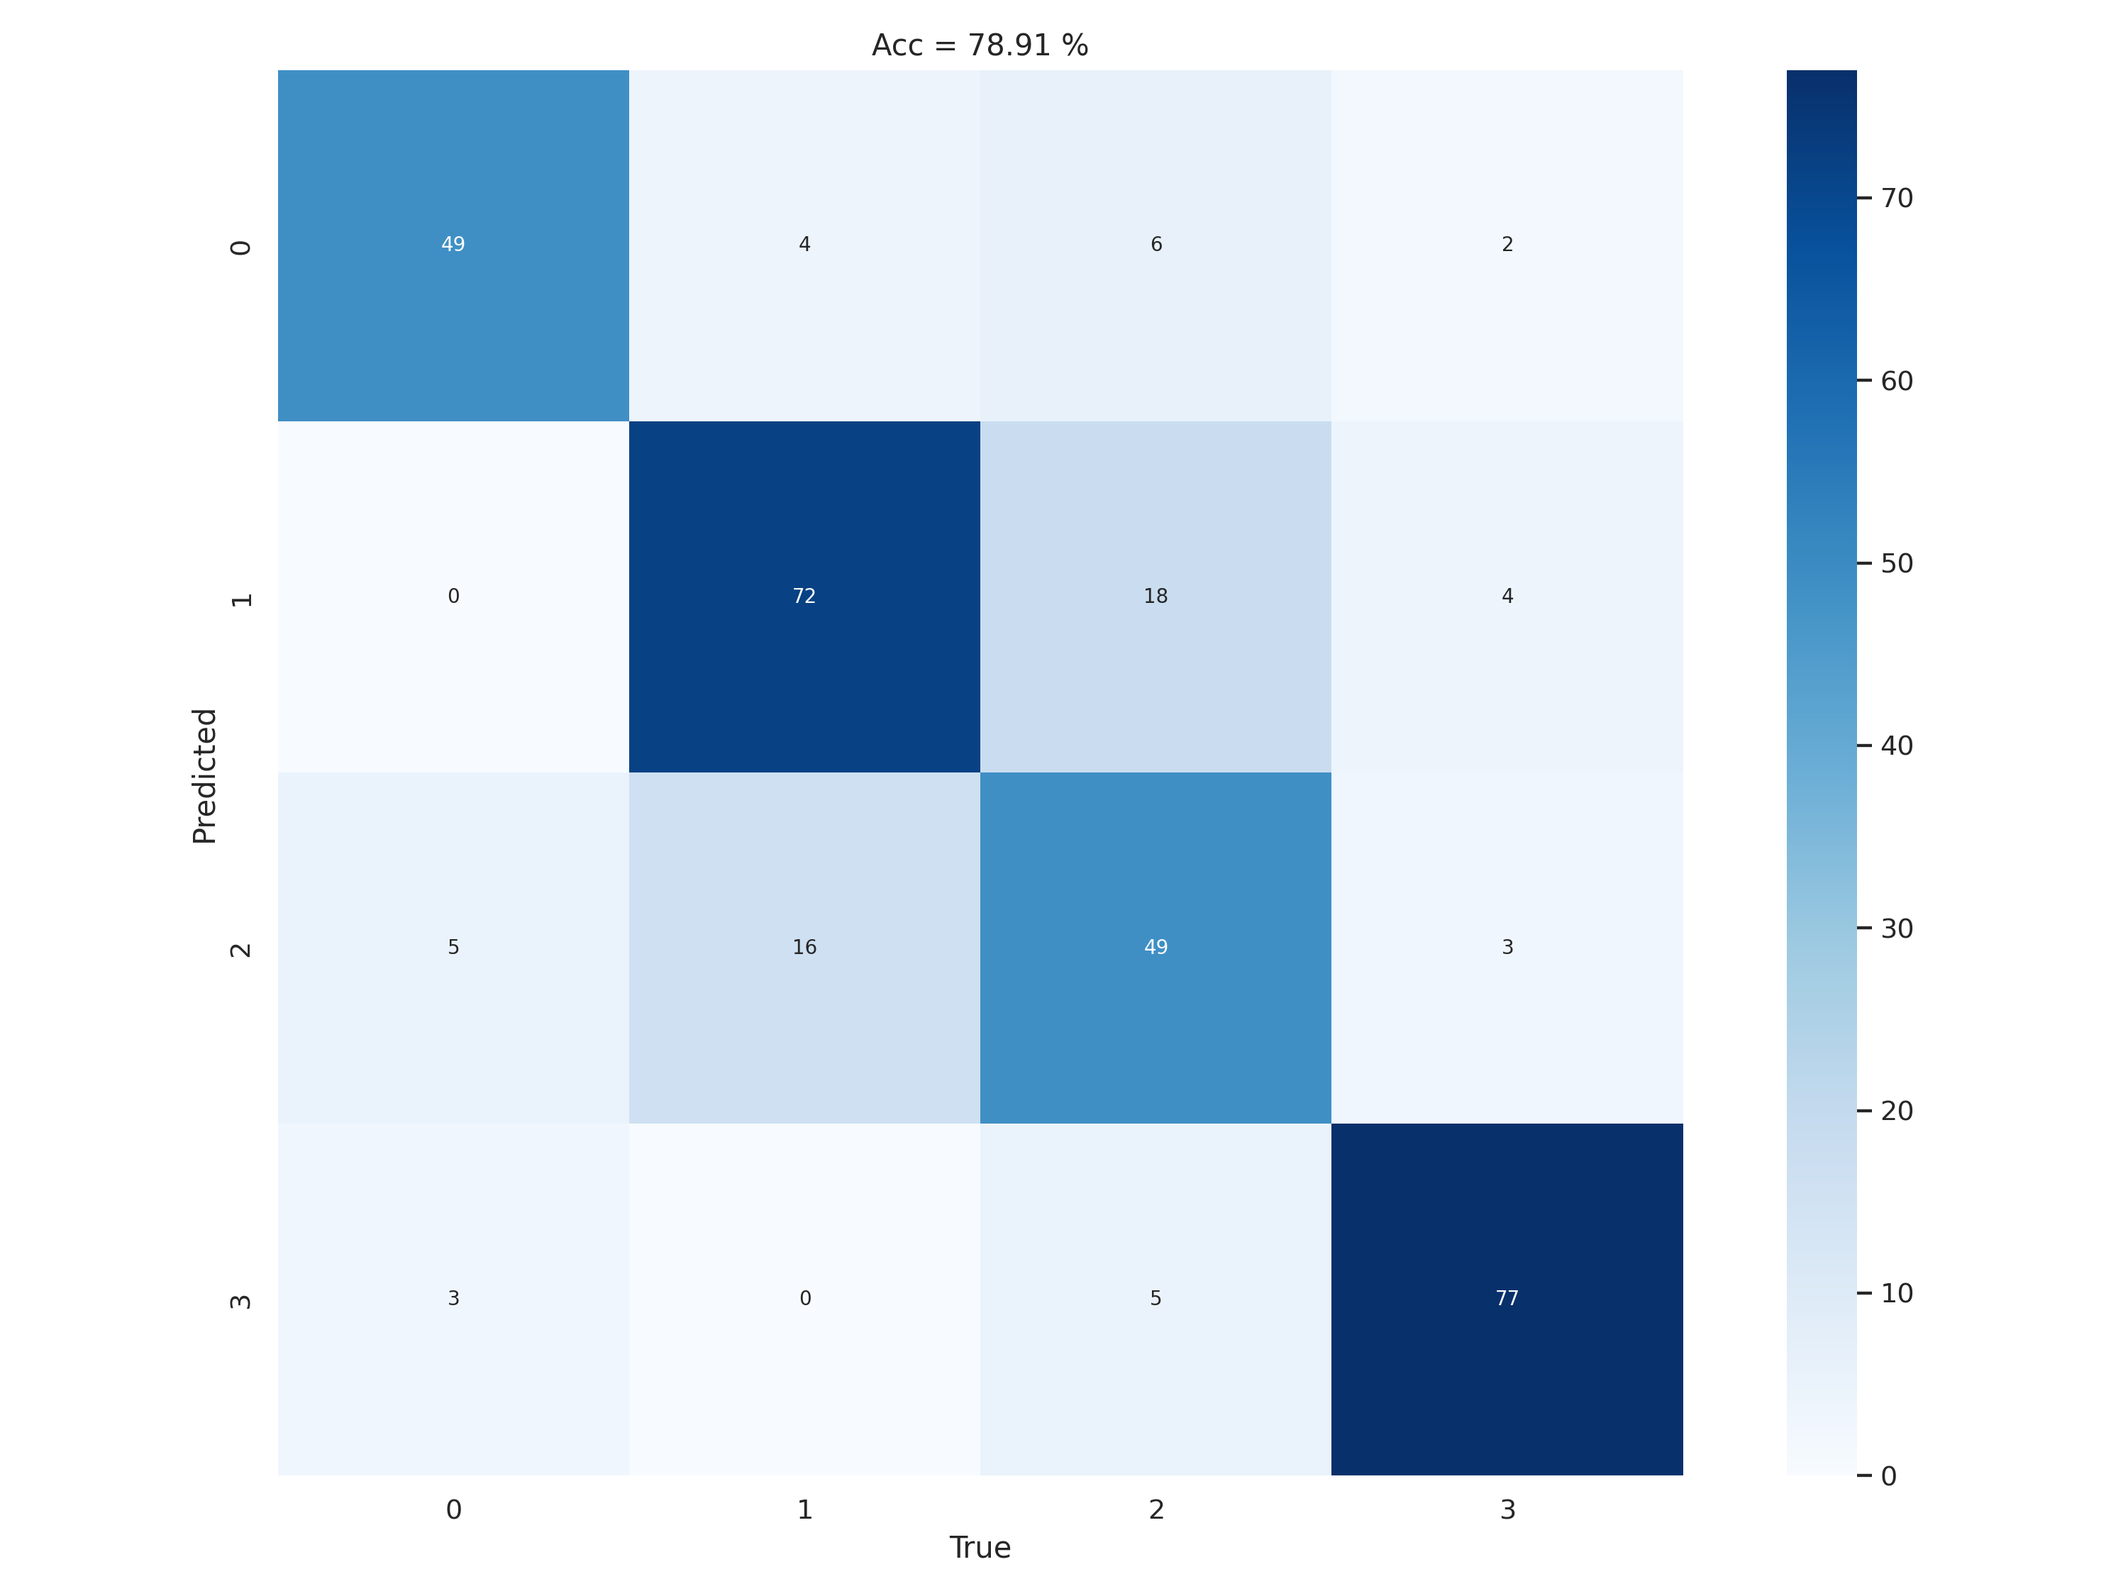
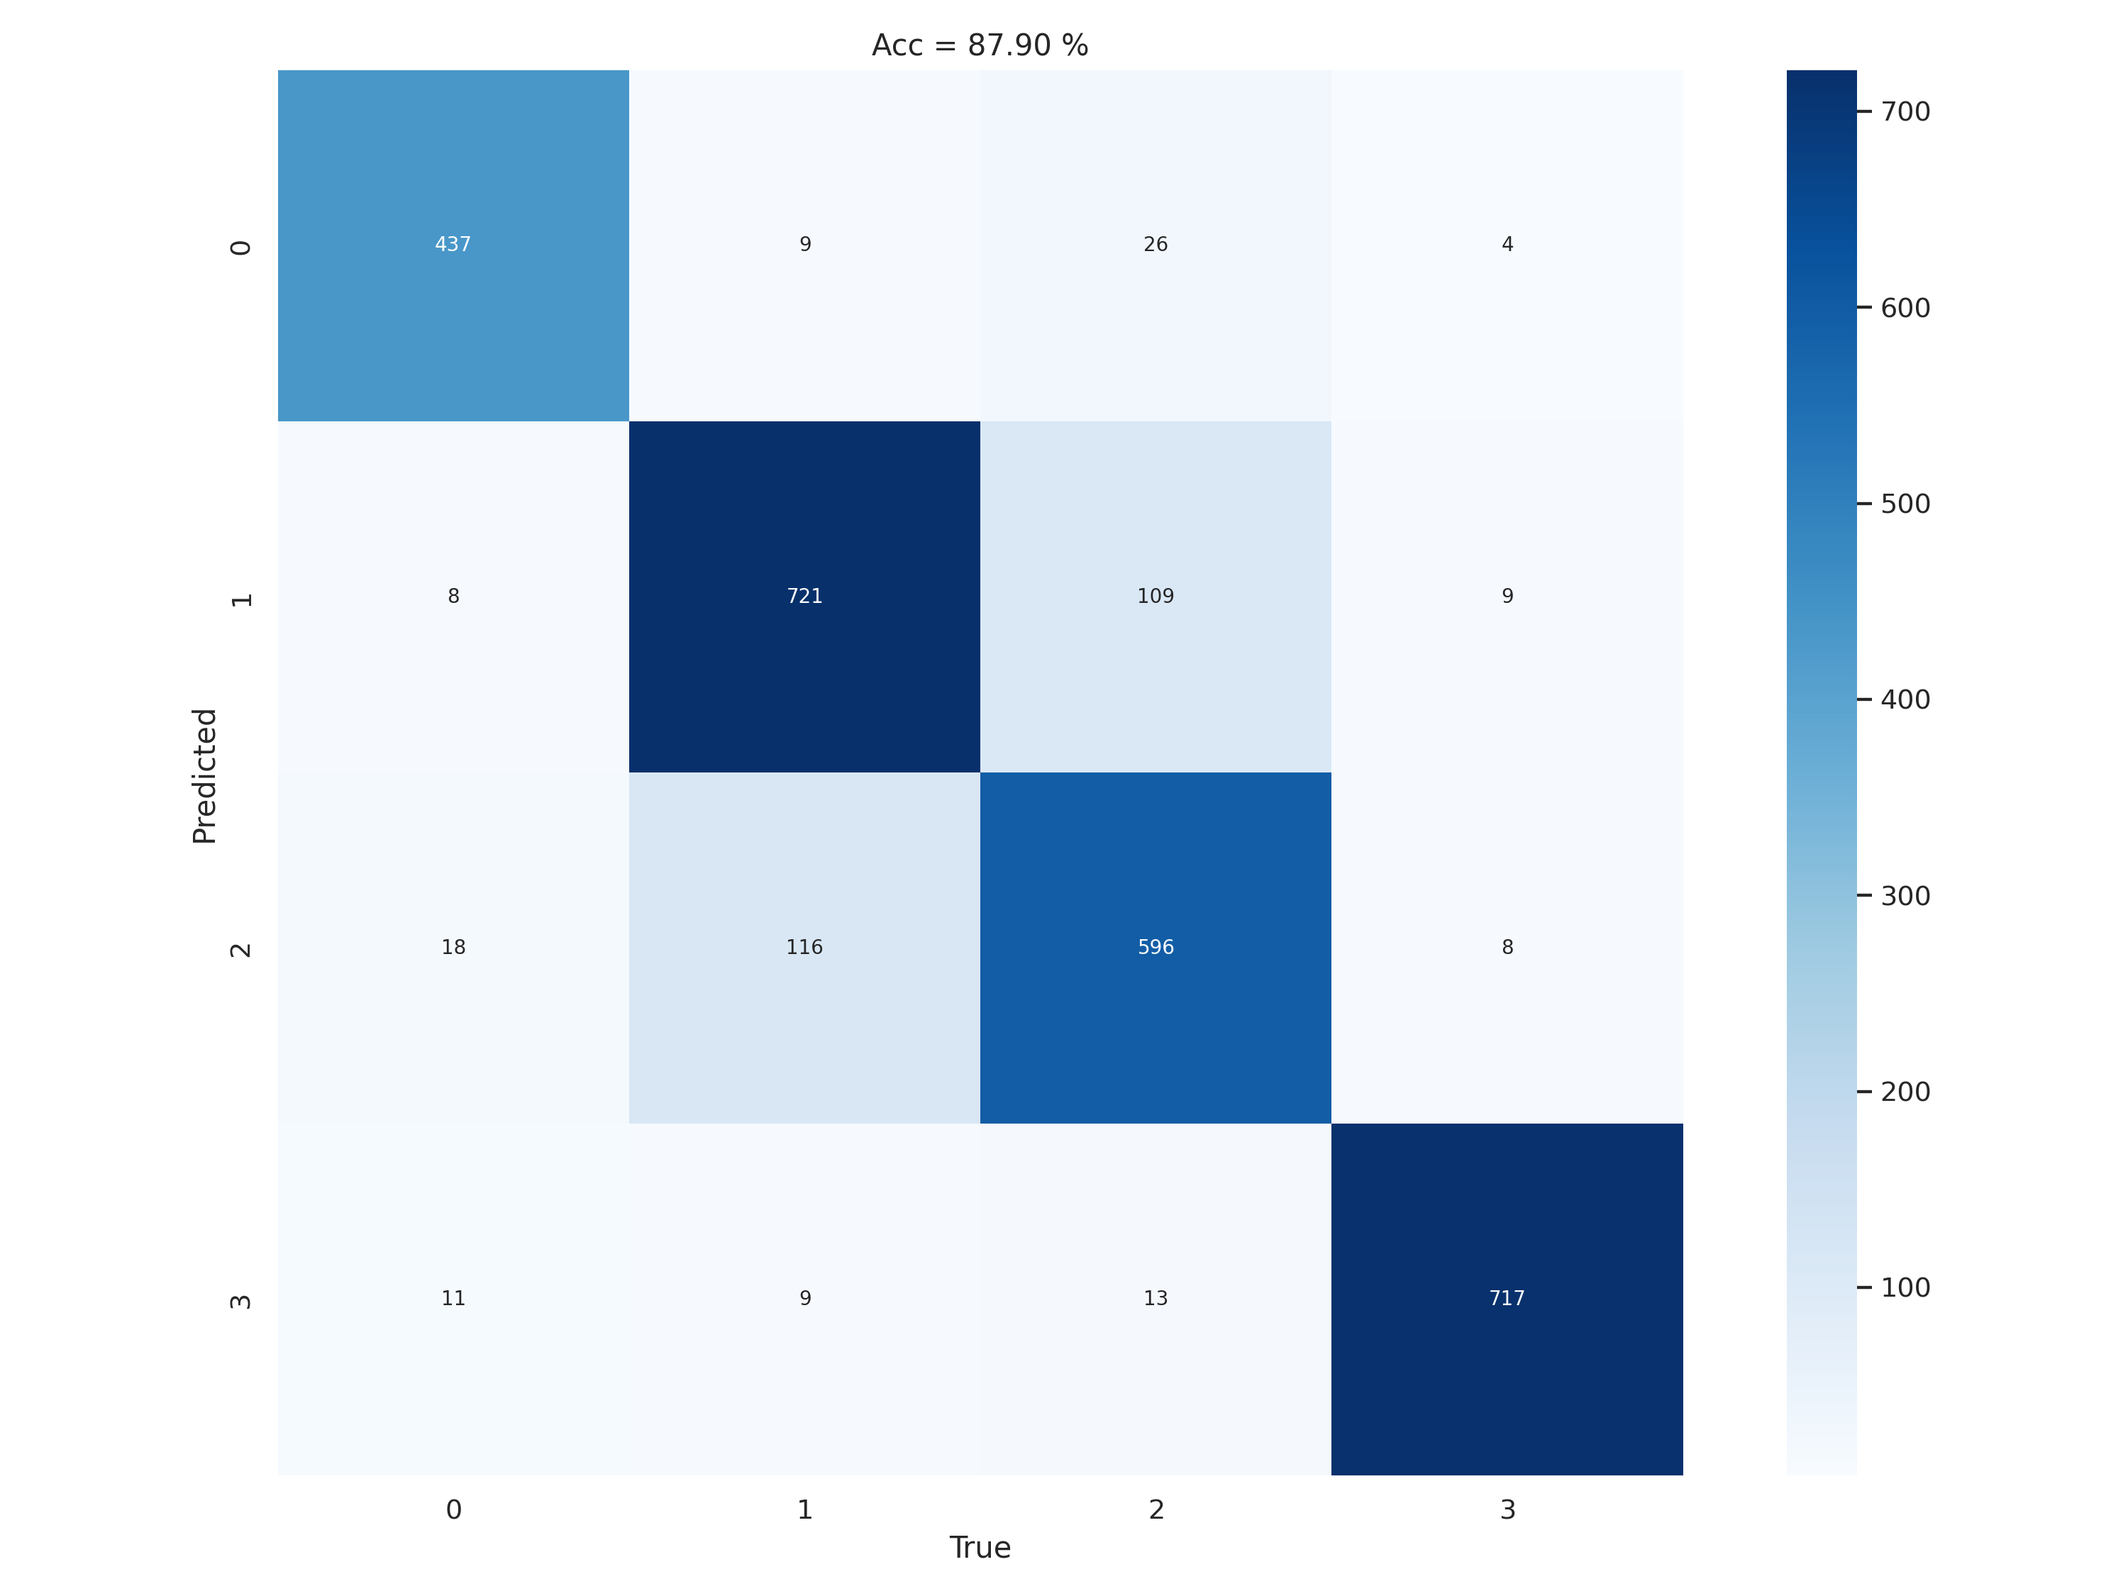
test code final

diff --git a/GUI.py b/GUI.py
@@ -1,5 +1,9 @@
-from cmath import inf
-from turtle import update
+# -*- coding: utf-8 -*-
+# @Organization  : DUT
+# @Author        : Cuong Tran
+# @Time          : 01/06/2022
+# @Function      : User Interface
+
 import cv2
 import numpy as np
 import pyqtgraph as pg
@@ -14,7 +18,6 @@ import time
 import glob
 import random
 from sklearn import metrics
-from sklearn.svm import SVC
 from pathlib import Path
 
 from PyQt5 import QtGui
@@ -24,8 +27,8 @@ from PyQt5.QtCore import pyqtSignal, pyqtSlot, Qt, QThread
 
 from models.model import AE, image_torch, Net
 from utils.transform import transformer
-from utils.cfa import Demosaic, demosaic
-from utils.draw import concat_image
+from utils.cfa import demosaic
+from utils.functions import concat_image
 from utils.plot import plot_cm
 from src.home import Ui_Form as home
 from src.test_tab import Ui_Form as infference
@@ -153,7 +156,7 @@ class TrainNeural(QThread):
         code_size = param['code_size']
         feature_extractor = torch.load('runs/ae.pt', map_location=device)
         feature_extractor.eval()
-        net = Net(input_size=code_size, num_classes=5)
+        net = Net(input_size=code_size, num_classes=4)
         optimizer = optim.Adam(net.parameters(), lr=1e-3)
         criterion = nn.CrossEntropyLoss()
         dataset = datasets.ImageFolder(input_path, transformer)
@@ -227,7 +230,7 @@ class EvaluateNeural(QThread):
                     class_idx = dict((v, k) for k, v in class_name.items())
                 truth_label = []
                 pred_label = []
-                for i in self.list_img_test:
+                for i in self.list_img_train:
                     image = cv2.imread(i, 0)
                     x = feature_extractor.preprocess_image(image)
                     code = feature_extractor.get_coding(x)
@@ -320,7 +323,6 @@ class EvaluateAutoencoder(QThread):
         self.cfa_flag = cfa
         self.run_flag = True
         self.time_per_epoch = time_per_epoch
-        self.cfa = Demosaic()
         self.list_img_train = glob.glob(os.path.join(dataset_dir, 'train/*/*'))
         self.list_img_test = glob.glob(os.path.join(dataset_dir, 'test/*/*'))
         self.start_idx_train = 0
@@ -349,8 +351,8 @@ class EvaluateAutoencoder(QThread):
                     x_image = image_torch(x, input_size=self.input_size)
                     y_image = image_torch(y, input_size=self.input_size)
                     if self.cfa_flag:
-                        x_image = self.cfa.cfa2bgr(x_image)
-                        y_image = self.cfa.cfa2bgr(y_image)
+                        x_image = demosaic.cfa2bgr(x_image)
+                        y_image = demosaic.cfa2bgr(y_image)
                     else:
                         x_image = cv2.cvtColor(x_image, cv2.COLOR_GRAY2BGR)
                         y_image = cv2.cvtColor(y_image, cv2.COLOR_GRAY2BGR)
@@ -367,8 +369,8 @@ class EvaluateAutoencoder(QThread):
                     x_image = image_torch(x, input_size=self.input_size)
                     y_image = image_torch(y, input_size=self.input_size)
                     if self.cfa_flag:
-                        x_image = self.cfa.cfa2bgr(x_image)
-                        y_image = self.cfa.cfa2bgr(y_image)
+                        x_image = demosaic.cfa2bgr(x_image)
+                        y_image = demosaic.cfa2bgr(y_image)
                     else:
                         x_image = cv2.cvtColor(x_image, cv2.COLOR_GRAY2BGR)
                         y_image = cv2.cvtColor(y_image, cv2.COLOR_GRAY2BGR)
@@ -450,9 +452,6 @@ class Home(QWidget, home):
             dir = QFileDialog.getExistingDirectory(None, 'Select', str(ROOT) + '/', QFileDialog.ShowDirsOnly)
             self.dataset_dir = dir
             self.info.append('Load ' + dir.split('/')[-1] + ' completed !!')
-            # self.cfa = self.CFA_checkbox.isChecked()
-            # print(self.cfa)
-            # print(self.dataset_dir)
         except:
             QMessageBox.warning(self, 'Warning', "Load data failed!")
 
@@ -526,7 +525,8 @@ class Home(QWidget, home):
         qt_img = self.convert_cv_qt(cv_img, 641, 371)
         self.screen.setPixmap(qt_img)
 
-    def convert_cv_qt(self, cv_img, w_screen, h_screen):
+    @staticmethod
+    def convert_cv_qt(cv_img, w_screen, h_screen):
         """Convert from an opencv image to QPixmap"""
         rgb_image = cv2.cvtColor(cv_img, cv2.COLOR_BGR2RGB)
         rgb_image = cv2.resize(rgb_image, (w_screen, h_screen))
@@ -542,6 +542,8 @@ class Test(QWidget, infference):
     def __init__(self):
         super().__init__()
         self.setupUi(self)
+        # self.logo_1.setIcon(QIcon('icons/Logo_dhbkdn.jpg'))
+        # self.logo_2.setIcon(QIcon('icons/logodtvt.jpg'))
         self.feature_extractor = torch.load('runs/ae.pt', map_location=device)
         self.feature_extractor.eval()
         self.svm_classifier = pickle.load(open('runs/svm.pickle', 'rb'))
@@ -575,10 +577,10 @@ class Test(QWidget, infference):
             y = self.feature_extractor.decode(code)
             mse = self.mse(x, y).detach().numpy()
             self.re.setText('%.3f'%(mse))
-
             if self.svm_checker.isChecked():
                 index = self.svm_classifier.predict(code.cpu().detach().numpy())[0]
                 pred = self.class_name[index]
+                self.confidence.setText('')
             else:
                 out = self.nn_classifier(code)
                 _, index = torch.max(out, 1)
@@ -611,6 +613,7 @@ class Test(QWidget, infference):
             if self.svm_checker.isChecked():
                 index = self.svm_classifier.predict(code.cpu().detach().numpy())[0]
                 pred = self.class_name[index]
+                self.confidence.setText('')
             else:
                 out = self.nn_classifier(code)
                 _, index = torch.max(out, 1)
@@ -644,6 +647,7 @@ class Test(QWidget, infference):
             if self.svm_checker.isChecked():
                 index = self.svm_classifier.predict(code.cpu().detach().numpy())[0]
                 pred = self.class_name[index]
+                self.confidence.setText('')
             else:
                 out = self.nn_classifier(code)
                 _, index = torch.max(out, 1)
@@ -668,7 +672,8 @@ class Test(QWidget, infference):
         qt_img = self.convert_cv_qt(cv_img, 250, 250)
         screen.setPixmap(qt_img)
 
-    def convert_cv_qt(self, cv_img, w_screen, h_screen):
+    @staticmethod
+    def convert_cv_qt(cv_img, w_screen, h_screen):
         """Convert from an opencv image to QPixmap"""
         rgb_image = cv2.cvtColor(cv_img, cv2.COLOR_BGR2RGB)
         rgb_image = cv2.resize(rgb_image, (w_screen, h_screen))
@@ -696,6 +701,7 @@ class MyTableWidget(QWidget):
         #############################################
         self.layout.addWidget(self.tabs)
         self.setLayout(self.layout)
+        self.setWindowIcon(QtGui.QIcon('src/logomain.jpeg'))
 
     @pyqtSlot()
     def on_click(self):
@@ -708,7 +714,6 @@ def main():
     w = MyTableWidget()
     w.show()
     app.exec_()
-
 
 if __name__ == "__main__":
     main()

diff --git a/utils/dataset.py b/utils/dataset.py
@@ -1,15 +1,22 @@
+# -*- coding: utf-8 -*-
+# @Organization  : DUT
+# @Author        : Cuong Tran
+# @Time          : 01/06/2022
+
+
 import cv2
 import os
-from utils.cfa import Demosaic
+from utils.cfa import demosaic
 from sklearn.model_selection import train_test_split
 from glob import glob
 import yaml
-root_dir = '/'.join(os.path.dirname(__file__).split('/')[:-1])
 
-demosaic = Demosaic()
+
+root_dir = '/'.join(os.path.dirname(__file__).split('/')[:-1])
 with open(os.path.join(root_dir, 'src/config.yaml'), 'r') as f:
     param = yaml.load(f, Loader=yaml.FullLoader)
 input_size = param['input_size']
+
 
 def create_cfa_dataset(origin_path, save_path):
     list_classes = glob(origin_path + '/*')
@@ -37,6 +44,8 @@ def create_cfa_dataset(origin_path, save_path):
                 cv2.imwrite(os.path.join(save_path, path_clss_img), CFA.astype('uint8'))
             except:
                 continue
+
+
 def create_gray_dataset(origin_path, save_path):
     list_classes = glob(origin_path + '/*')
     try:
@@ -61,6 +70,8 @@ def create_gray_dataset(origin_path, save_path):
                 cv2.imwrite(os.path.join(save_path, path_clss_img), image)
             except:
                 continue
+
+
 def split_dataset(dataset_path, out_path):
     try:
         os.mkdir(out_path)
@@ -86,6 +97,8 @@ def split_dataset(dataset_path, out_path):
     for i in test:
         ds_path = out_path + '/test/' + '/'.join(i.split('/')[-2:])
         cv2.imwrite(ds_path, cv2.imread(i))
+
+
 if __name__ == '__main__':
     ori = '/home/cuong/Desktop/autoencoder/auto-encoder/dataset_flower_origin (copy)/test'
     ds = ori + '_split'

diff --git a/utils/functions.py b/utils/functions.py
@@ -1,5 +1,12 @@
+# -*- coding: utf-8 -*-
+# @Organization  : DUT
+# @Author        : Cuong Tran
+# @Time          : 01/06/2022
+
 import os
 import cv2
+import numpy as np
+
 
 def save_new_image(path_dir, image):
     c = 0
@@ -7,3 +14,27 @@ def save_new_image(path_dir, image):
         c = c + 1
     path = os.path.join(path_dir, 'test_%d.jpg'%(c))
     cv2.imwrite(path, image)
+
+
+def draw_grid(img, grid_shape, color=(0, 255, 0), thickness=1):
+    h, w, _ = img.shape
+    rows, cols = grid_shape
+    dy, dx = h / rows, w / cols
+    for x in np.linspace(start=dx, stop=w-dx, num=cols-1):
+        x = int(round(x))
+        cv2.line(img, (x, 0), (x, h), color=color, thickness=thickness)
+    for y in np.linspace(start=dy, stop=h-dy, num=rows-1):
+        y = int(round(y))
+        cv2.line(img, (0, y), (w, y), color=color, thickness=thickness)
+    return img
+
+
+def concat_image(list_image, grid_shape = (2, 8), image_size=(112, 112*2)):
+    rows, collums = grid_shape
+    out_image = np.zeros((rows*image_size[1], collums*image_size[0], 3)).astype('uint8')
+    for idx, image in enumerate(list_image):
+        x_position = (idx % collums) * image_size[0]
+        y_position = (idx // collums) * image_size[1]
+        out_image[y_position:y_position+image_size[1], x_position:x_position+image_size[0], :] = image
+    out_image = draw_grid(out_image, grid_shape, color=(255, 255, 255), thickness=1)
+    return out_image

diff --git a/utils/plot.py b/utils/plot.py
@@ -1,8 +1,15 @@
+# -*- coding: utf-8 -*-
+# @Organization  : DUT
+# @Author        : Cuong Tran
+# @Time          : 01/06/2022
+
+
 import warnings
 from pathlib import Path
-import cv2
 import matplotlib.pyplot as plt
 import numpy as np
+
+
 def plot_cm(CM, normalize=True, save_dir='', names=(), show=True, title=''):
     if True:
         import seaborn as sn
@@ -13,7 +20,6 @@ def plot_cm(CM, normalize=True, save_dir='', names=(), show=True, title=''):
         if normalize:
             fmt = '.2f'
             array[array < 0.005] = np.nan  # don't annotate (would appear as 0.00)
-
         fig = plt.figure(figsize=(12, 9), tight_layout=True)
         sn.set(font_scale=1.0 if 2 < 50 else 0.8)  # for label size
         labels = (0 < len(names) < 99) and len(names) == 2  # apply names to ticklabels

diff --git a/models/model.py b/models/model.py
@@ -1,18 +1,21 @@
+# -*- coding: utf-8 -*-
+# @Organization  : DUT
+# @Author        : Cuong Tran
+# @Time          : 01/06/2022
+
+
 import torch
 from torch import nn
 from PIL import Image
-from torchvision import transforms
-import cv2
 import sys
 from pathlib import Path
+from utils.transform import transformer
+
 
 FILE = Path(__file__).resolve()
 ROOT = FILE.parents[1]
-
 if str(ROOT) not in sys.path:
     sys.path.append(str(ROOT))
-
-from utils.transform import transformer
 
 
 def image_torch(x, input_size=32):
@@ -24,7 +27,6 @@ def image_torch(x, input_size=32):
 
 
 class AE(nn.Module):
-
     def __init__(self, input_size=32, code_size=15):
         super().__init__()
         # 1024 ==> 9

diff --git a/utils/cfa.py b/utils/cfa.py
@@ -1,9 +1,10 @@
-from glob import glob
+# -*- coding: utf-8 -*-
+# @Organization  : DUT
+# @Author        : Cuong Tran
+# @Time          : 01/06/2022
+
+
 import cv2
-import numpy as np
-import os
-import sys
-import colour
 from colour_demosaicing import demosaicing_CFA_Bayer_Menon2007, mosaicing_CFA_Bayer, demosaicing_CFA_Bayer_bilinear
 import yaml
 import os

diff --git a/utils/transform.py b/utils/transform.py
@@ -1,6 +1,8 @@
-import os
-import torch
-import torchvision
+# -*- coding: utf-8 -*-
+# @Organization  : DUT
+# @Author        : Cuong Tran
+# @Time          : 01/06/2022
+
 from torchvision import transforms, datasets
 
 normalize = transforms.Normalize(mean=[0.5],

diff --git a/README.md b/README.md
@@ -1,9 +1,6 @@
-# Auto Encoder 
+# Flower Recognition with Auto Encoder 
 ***
 Final Project of Machine Learning course
-
-## Dev
-```Cuong Tran```
 ## Member
 ```buildoutcfg
 Tran Chi Cuong
@@ -15,16 +12,32 @@ Ho Thanh Long
 ## Sumary  
 ***
 - Flower recognition with Auto Encoder + ANN/SVM
-## Auto Encoder  
-- Technical limit: only using Neural Network with Fully Connected layers
-- Preprocess image:
-![](imgs/cfa_image.png)
-- Model: 
-![](imgs/AutoEncoder.jpg "Time")
 
+## Auto Encoder 
+- Left: Original Image, Right: Recontructed Image (Test Set)  
+   
+![](imgs/test_org_1.jpg)     --->  ![](imgs/test_pred_1.jpg)  
+![](imgs/test_org_2.jpg)     --->  ![](imgs/test_pred_2.jpg)  
+![](imgs/test_org_3.jpg)     --->  ![](imgs/test_pred_3.jpg)  
 
-## Early result 
-![](imgs/test_0.jpg)
-![](imgs/test_1.jpg)
-![](imgs/test_2.jpg)
-![](imgs/test_3.jpg)
+## Classification  
+
+<figure>
+<img  src="runs/confusion_matrix_nn_test.png" alt="Trulli" style="width:1080px;">
+<figcaption align = "center"><b>Confusion Matrix in Test Set (ANN)</b></figcaption>
+</figure>
+
+<figure>
+<img src="runs/confusion_matrix_svm_test.png" alt="Trulli" style="width:1080px;">
+<figcaption align = "center"><b>Confusion Matrix in Test Set (SVM)</b></figcaption>
+</figure>
+
+<figure>
+<img src="runs/confusion_matrix_nn_train.png" alt="Trulli" style="width:1080px;">
+<figcaption align = "center"><b>Confusion Matrix in Train Set (ANN)</b></figcaption>
+</figure>
+
+<figure>
+<img src="runs/confusion_matrix_svm_train.png" alt="Trulli" style="width:1080px;">
+<figcaption align = "center"><b>Confusion Matrix in Train Set (SVM)</b></figcaption>
+</figure>
